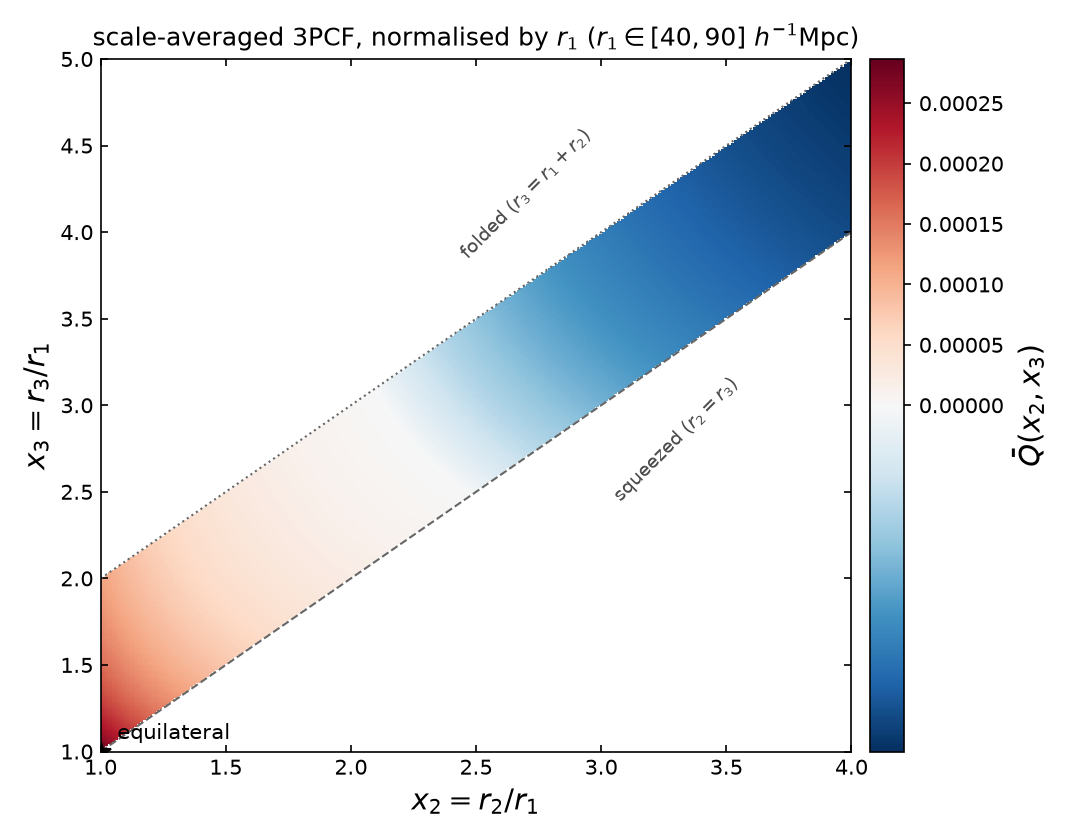
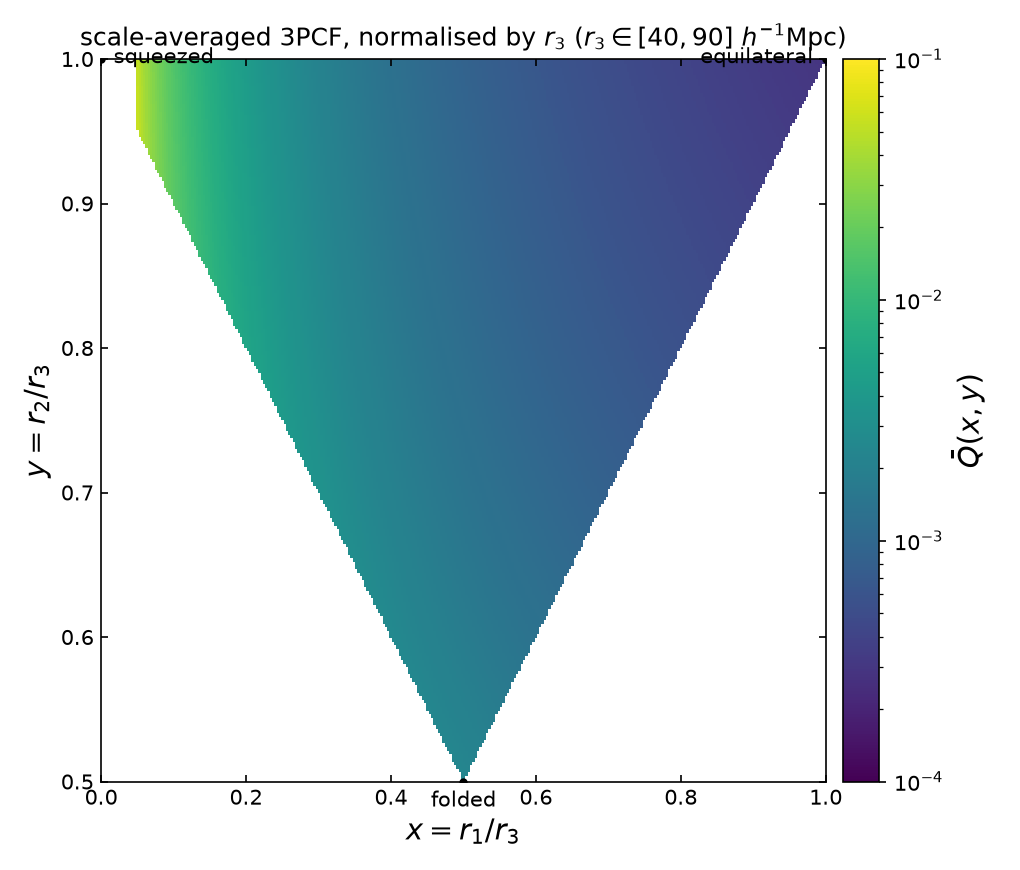
Normalise scale-averaged Qbar by the largest side r3 (inverted triangle)
Revert the shape parametrisation to x=r1/r3, y=r2/r3 so the configurations fill
the proper inverted-triangle region (squeezed, equilateral, folded at the
corners) instead of the unbounded band that r1-normalisation produced. Average
Qhat(x*r, y*r, r) over the reference largest side r3. Bound x from below so the
smallest side stays physical, and let the colour scale adapt to the data:
decade-aligned log when single-signed, diverging and centred at zero when the
3PCF changes sign -- no assumptions baked in about the placeholder's sign.

Claude-Session: https://claude.ai/code/session_018XyGNHj97aYduM6kDPuy9u

diff --git a/plot_3pcf_qbar.py b/plot_3pcf_qbar.py
@@ -1,19 +1,22 @@
-"""Single-panel scale-averaged 3PCF over triangle shape, normalised by r1.
+"""Single-panel scale-averaged 3PCF over triangle shape, normalised by r3.
 
 Run:
 
     python plot_3pcf_qbar.py
 
 Produces ``qbar_triangular.png``: one panel of the scale-averaged 3PCF
-Qbar(x2, x3) over the shape plane x2 = r2/r1, x3 = r3/r1 (the smallest side r1
-is the reference -- the "upside-down" configuration-space counterpart of the
-largest k1 used in Fourier space).  Qbar is the configuration-space analogue of
-Eq. (44):
+Qbar(x, y) over the shape plane x = r1/r3, y = r2/r3 (the largest side r3 is the
+reference, mirroring k1 in Fourier space).  Qbar is the configuration-space
+analogue of Eq. (44):
 
-    Qbar(x2, x3) = 1/(r_u - r_l) * int_{r_l}^{r_u} dr Qhat(r, r x2, r x3).
+    Qbar(x, y) = 1/(r_u - r_l) * int_{r_l}^{r_u} dr Qhat(x r, y r, r),
 
-The synthetic Qhat changes sign at large separation, so the colour scale is
-diverging and centred (white) at zero.
+i.e. Qhat averaged over the reference (largest) side r3 = r.  The configurations
+fill the inverted-triangle region: squeezed at top-left, equilateral at
+top-right, folded at bottom-centre.
+
+The colour scale adapts to the data: a diverging scale centred at zero if Qbar
+changes sign, otherwise a logarithmic sequential scale.
 """
 
 from __future__ import annotations
@@ -23,63 +26,73 @@ import matplotlib
 
 matplotlib.use("Agg")
 import matplotlib.pyplot as plt
-from matplotlib.colors import TwoSlopeNorm
+from matplotlib.colors import LogNorm, TwoSlopeNorm
 
 from three_pcf_triangular import q_bar
 
-# Shape grid: x2 = r2/r1 >= 1, x3 = r3/r1 >= 1. Valid triangles satisfy
-# x2 <= x3 <= x2 + 1 (ordering r1 <= r2 <= r3 and the triangle inequality).
-X2_MAX, X3_MAX = 4.0, 5.0
-# Scale-average window (smallest side r1), chosen to straddle the zero-crossing
-# regime so the sign of the 3PCF is visible.
+# Scale-average window (reference = largest side r3).
 R_L, R_U = 40.0, 90.0
-
-CMAP = plt.get_cmap("RdBu_r").copy()
-CMAP.set_bad("white")  # cells outside the triangle region stay white
+# Lower bound on x = r1/r3, keeping the smallest side physical.
+X_MIN = 0.05
 
 
 def make_plot(outfile: str = "qbar_triangular.png") -> None:
-    x2 = np.linspace(1.0, X2_MAX, 240)
-    x3 = np.linspace(1.0, X3_MAX, 320)
-    X2, X3 = np.meshgrid(x2, x3)
+    # Shape plane: x = r1/r3, y = r2/r3, both in (0, 1]. Valid triangles satisfy
+    # x <= y <= 1 (ordering r1 <= r2 <= r3) and x + y >= 1 (triangle inequality),
+    # i.e. the inverted-triangle region. x is bounded below at X_MIN so the
+    # smallest side r1 = x r3 stays physical (the squeezed limit r1 -> 0 makes
+    # the model two-point function diverge and would swamp the colour scale).
+    x = np.linspace(X_MIN, 1.0, 300)
+    y = np.linspace(0.5, 1.0, 200)
+    X, Y = np.meshgrid(x, y)
 
-    qbar = q_bar(X2, X3, r_l=R_L, r_u=R_U)
+    qbar = q_bar(X, Y, r_l=R_L, r_u=R_U)
 
-    # Mask everything outside the valid band x2 <= x3 <= x2 + 1.
-    valid = (X3 >= X2) & (X3 <= X2 + 1.0)
+    valid = (Y >= X) & (X + Y >= 1.0) & (Y <= 1.0)
     qbar = np.ma.masked_array(qbar, mask=~valid)
 
-    vmax = np.abs(qbar).max()
-    vmin = qbar.min()
-    norm = TwoSlopeNorm(vmin=vmin, vcenter=0.0, vmax=vmax)
+    # Adapt the colour scale to whatever the data actually is: diverging and
+    # centred at zero if Qbar changes sign, otherwise a decade-aligned log scale.
+    qmin = float(qbar.min())
+    qmax = float(qbar.max())
+    if qmin < 0.0 < qmax:
+        vlim = max(abs(qmin), abs(qmax))
+        norm = TwoSlopeNorm(vmin=-vlim, vcenter=0.0, vmax=vlim)
+        cmap = plt.get_cmap("RdBu_r").copy()
+    else:
+        vmin = 10 ** np.floor(np.log10(qmin))
+        vmax = 10 ** np.ceil(np.log10(qmax))
+        norm = LogNorm(vmin=vmin, vmax=vmax)
+        cmap = plt.get_cmap("viridis").copy()
+    cmap.set_bad("white")  # outside the triangle region
+    cbar_label = r"$\bar{Q}(x, y)$"
 
-    fig, ax = plt.subplots(figsize=(7.2, 5.6))
-    mesh = ax.pcolormesh(X2, X3, qbar, cmap=CMAP, norm=norm, shading="auto")
+    fig, ax = plt.subplots(figsize=(6.8, 5.8))
+    mesh = ax.pcolormesh(X, Y, qbar, cmap=cmap, norm=norm, shading="auto")
 
-    # Configuration landmarks.
-    ax.plot([1, X2_MAX], [1, X2_MAX], color="0.4", lw=1.0, ls="--")          # x3=x2 (isosceles/squeezed edge)
-    ax.plot([1, X2_MAX], [2, X2_MAX + 1], color="0.4", lw=1.0, ls=":")       # x3=x2+1 (folded edge)
-    ax.plot(1, 1, "k*", ms=10)                                               # equilateral
-    ax.annotate("equilateral", (1, 1), textcoords="offset points",
-                xytext=(8, 6), fontsize=10)
-    ax.text(3.3, 3.18, "squeezed ($r_2 = r_3$)", fontsize=9, color="0.3",
-            rotation=45, ha="center", va="top")
-    ax.text(2.7, 3.82, "folded ($r_3 = r_1 + r_2$)", fontsize=9, color="0.3",
-            rotation=45, ha="center", va="bottom")
+    # Configuration landmarks at the three corners of the inverted triangle.
+    for (cx, cy, label, dx, dy, ha) in [
+        (0.0, 1.0, "squeezed", 6, -2, "left"),
+        (1.0, 1.0, "equilateral", -6, -2, "right"),
+        (0.5, 0.5, "folded", 0, -12, "center"),
+    ]:
+        ax.plot(cx, cy, "k.", ms=6)
+        ax.annotate(label, (cx, cy), textcoords="offset points",
+                    xytext=(dx, dy), ha=ha, fontsize=10)
 
-    ax.set_xlim(1.0, X2_MAX)
-    ax.set_ylim(1.0, X3_MAX)
-    ax.set_xlabel(r"$x_2 = r_2 / r_1$", fontsize=14)
-    ax.set_ylabel(r"$x_3 = r_3 / r_1$", fontsize=14)
+    ax.set_xlim(0.0, 1.0)
+    ax.set_ylim(0.5, 1.0)
+    ax.set_xlabel(r"$x = r_1 / r_3$", fontsize=14)
+    ax.set_ylabel(r"$y = r_2 / r_3$", fontsize=14)
     ax.tick_params(direction="in", top=True, right=True)
     ax.set_title(
-        rf"scale-averaged 3PCF, normalised by $r_1$ "
-        rf"($r_1 \in [{R_L:.0f}, {R_U:.0f}]\ h^{{-1}}\mathrm{{Mpc}}$)",
+        rf"scale-averaged 3PCF, normalised by $r_3$ "
+        rf"($r_3 \in [{R_L:.0f}, {R_U:.0f}]\ h^{{-1}}\mathrm{{Mpc}}$)",
         fontsize=12,
     )
 
     cb = fig.colorbar(mesh, ax=ax, pad=0.02)
-    cb.set_label(r"$\bar{Q}(x_2, x_3)$", fontsize=14)
+    cb.set_label(cbar_label, fontsize=14)
 
     fig.tight_layout()
     fig.savefig(outfile, dpi=150)

diff --git a/three_pcf_triangular.py b/three_pcf_triangular.py
@@ -241,29 +241,29 @@ def synthetic_qhat(
 
 
 def q_bar(
-    x2: np.ndarray,
-    x3: np.ndarray,
+    x: np.ndarray,
+    y: np.ndarray,
     r_l: float = 40.0,
     r_u: float = 90.0,
     n_r: int = 256,
     integrand=synthetic_qhat,
 ) -> np.ndarray:
-    """Scale-averaged 3PCF as a function of shape, normalised by the smallest side.
+    """Scale-averaged 3PCF as a function of shape, normalised by the largest side.
 
-    Configuration-space analogue of Eq. (44): with x2 = r2/r1 and x3 = r3/r1
-    (the smallest side r1 is the reference, the "upside-down" counterpart of the
-    largest k1 in Fourier space),
+    Configuration-space analogue of Eq. (44).  With x = r1/r3 and y = r2/r3
+    (both <= 1; the largest side r3 is the reference, mirroring the largest k1
+    in Fourier space),
 
-        Qbar(x2, x3) = 1/(r_u - r_l) * \\int_{r_l}^{r_u} dr Qhat(r, r x2, r x3).
+        Qbar(x, y) = 1/(r_u - r_l) * \\int_{r_l}^{r_u} dr Qhat(x r, y r, r).
 
-    The integral runs over the reference (smallest) side r1 = r and is evaluated
-    by the trapezoidal rule on ``n_r`` points.  ``x2`` and ``x3`` may be arrays
-    of any matching shape; the result has that same shape.
+    The integral runs over the reference (largest) side r3 = r and is evaluated
+    by the trapezoidal rule on ``n_r`` points.  ``x`` and ``y`` may be arrays of
+    any matching shape; the result has that same shape.
     """
-    x2 = np.asarray(x2, dtype=float)
-    x3 = np.asarray(x3, dtype=float)
+    x = np.asarray(x, dtype=float)
+    y = np.asarray(y, dtype=float)
 
     rr = np.linspace(r_l, r_u, n_r)
-    r1 = rr.reshape((1,) * x2.ndim + (-1,))          # (..., n_r)
-    val = integrand(r1, r1 * x2[..., None], r1 * x3[..., None])
+    r3 = rr.reshape((1,) * x.ndim + (-1,))           # (..., n_r)
+    val = integrand(x[..., None] * r3, y[..., None] * r3, r3)
     return _trapz(val, rr, axis=-1) / (r_u - r_l)

diff --git a/README.md b/README.md
@@ -74,24 +74,24 @@ the cosine of the angle between sides `r1` and `r2` (opposite the longest side
 the 3PCF model.
 
 `plot_3pcf_qbar.py` writes `qbar_triangular.png`: the **scale-averaged** 3PCF as
-a function of shape, normalised by the *smallest* side `r1`. In configuration
-space the side hierarchy is upside-down relative to Fourier space (the smallest
-side `r1` plays the role of the largest wavenumber `k1`), so here the shape axes
-are `x2 = r2/r1` and `x3 = r3/r1`, both `>= 1`, with valid triangles in the band
-`x2 <= x3 <= x2 + 1`. The plotted quantity is the configuration-space analogue
-of Eq. (44),
+a function of shape, on the same inverted-triangle plane as the main figure,
+normalised by the largest side `r3`. The shape axes are `x = r1/r3` and
+`y = r2/r3` (both `<= 1`), with the squeezed, equilateral and folded
+configurations at the three corners. The plotted quantity is the
+configuration-space analogue of Eq. (44),
 
 ```
-Qbar(x2, x3) = 1/(r_u - r_l) * integral_{r_l}^{r_u} dr  Qhat(r, r*x2, r*x3),
+Qbar(x, y) = 1/(r_u - r_l) * integral_{r_l}^{r_u} dr  Qhat(x*r, y*r, r),
 ```
 
-i.e. `Qhat` averaged over the reference (smallest) side `r1 = r`. The synthetic
-`Qhat` uses a two-point function with a large-scale zero-crossing, so the 3PCF
-**changes sign**: the colour scale is diverging and centred (white) at zero,
-positive (red) near equilateral and negative (blue) toward elongated shapes.
-The averaging window `[r_l, r_u]` is chosen to straddle the zero-crossing regime
-so the sign is visible; `synthetic_qhat` and `q_bar` in `three_pcf_triangular.py`
-expose all the parameters.
+i.e. `Qhat` averaged over the reference (largest) side `r3 = r`. The colour
+scale adapts to the data: a decade-aligned logarithmic scale when `Qbar` is
+single-signed (as for the synthetic placeholder, which peaks toward the
+squeezed edge), or a diverging scale centred at zero if `Qbar` changes sign.
+The synthetic `Qhat` is only an illustrative placeholder; swap in a measured or
+modelled reduced 3PCF via the `integrand` argument of `q_bar`. The averaging
+window `[r_l, r_u]` and all model parameters are exposed in
+`three_pcf_triangular.py`.
 
 ### Plugging in real data
 
